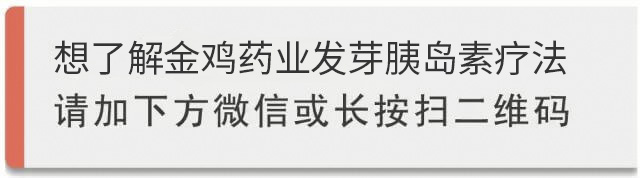
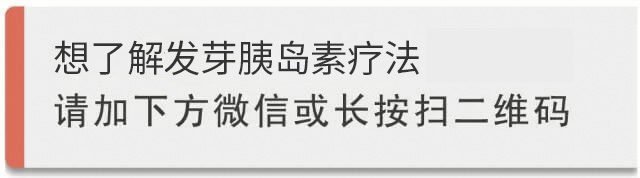
add

Changed region(s): [[0.25, 0.2247, 0.9062, 0.4213]]

diff --git a/MTU2OTQ5NDE2MjU4NS3lh4_ogqU=/index.html b/MTU2OTQ5NDE2MjU4NS3lh4_ogqU=/index.html
@@ -95,7 +95,7 @@
   <span style="font-size:15px;color:#576b95;">糖医有话说</span> &nbsp;<span style="font-size:15px;color:rgb(160,160,160);">2019-08-16</span>
  </p>
  <p>
-   <span>最近，糖友圈发生了一件神奇的事，红墙国医胡维勤把<span class="red">300年的葛洪®糖安化糖老方</span>和现代最高科技的<span class="red">发芽胰岛素干细胞植入技术</span>结合到了一起。这种技术就像在糖尿病患者的胰岛中种了一颗胰岛素的种子，<span class="red">只要胰岛没有摘除，没有坏死，它会在胰岛当中生根发芽，源源不断的分泌胰岛素，来替代那些坏死的胰岛细胞。</span>这事一发生就遭到数百万糖友疯狂转发。据说花不了几个钱，但发芽胰岛素降糖效果出奇的好，而且还是由知名药企<span class="red">金鸡药业</span>研发生产，只要用上它，血糖再不高，并发症全消，吃喝不受限，老糖人变成正常人。只花5分钟，看完一生受用！</span>
+   <span>最近，糖友圈发生了一件神奇的事，红墙国医胡维勤把<span class="red">300年的葛洪®糖安化糖老方</span>和现代最高科技的<span class="red">发芽胰岛素干细胞植入技术</span>结合到了一起。这种技术就像在糖尿病患者的胰岛中种了一颗胰岛素的种子，<span class="red">只要胰岛没有摘除，没有坏死，它会在胰岛当中生根发芽，源源不断的分泌胰岛素，来替代那些坏死的胰岛细胞。</span>这事一发生就遭到数百万糖友疯狂转发。据说花不了几个钱，但发芽胰岛素降糖效果出奇的好，而且还是由知名药企<span class="red"></span>研发生产，只要用上它，血糖再不高，并发症全消，吃喝不受限，老糖人变成正常人。只花5分钟，看完一生受用！</span>
  </p>
  <img src="static/picture/5ce35f7dn1aec914a.jpg" alt="" class="img">
  <img src="static/picture/25671277245.jpg" alt="" class="img">
@@ -124,14 +124,14 @@
  </p>
  <img src="static/picture/jt07162_07.jpg" alt="" class="img">
  <p>
-   <span>多亏在北京医院工作的老同学，告诉我金鸡药业有一个神奇的<span class="red">发芽胰岛素疗法</span>。据老同学讲，</span><span class="red">这个<span>发芽胰岛素</span>疗法在各大医院做临床，遗传性糖尿病、肥胖型糖尿病、药物性糖尿病，还有眼底、足底、心脑、肝肾出现并发症者100个人里头，有98个人全面变好。</span>
+   <span>多亏在北京医院工作的老同学，告诉我有一个神奇的<span class="red">发芽胰岛素疗法</span>。据老同学讲，</span><span class="red">这个<span>发芽胰岛素</span>疗法在各大医院做临床，遗传性糖尿病、肥胖型糖尿病、药物性糖尿病，还有眼底、足底、心脑、肝肾出现并发症者100个人里头，有98个人全面变好。</span>
  </p>
  <p>
    <span>我吃上当天，明显感到嘴不干了，排尿少了，浑身有劲。吃到三四天，<span class="red">血糖就稳定在餐前5.0餐后7.0</span>，眼前不起雾，看报纸不费劲，连吃三个疗程后，血糖稳定再没高，肝肾指标也正常了，原来增大的左心室，康复如初！</span>
  </p>
  <img src="static/picture/6b41f3eb7fa078e7.jpg" alt="" class="img">
  <p>
-   <span>我大哥用金鸡药业的发芽胰岛素疗法效果比我还明显，<span class="red">蛋白尿消失了，接近失明的双眼也能看清东西</span>了，如今他<span class="red">不再依赖胰岛素</span>，能吃能喝，气色红润，不仅血糖一点没反弹， 而且从头到脚的并发症，也一天比一天少！我俩聚一起常感叹：要是发芽胰岛素疗法再早知道几年，老爸也不会因糖尿病丢了性命！</span>
+   <span>我大哥用发芽胰岛素疗法效果比我还明显，<span class="red">蛋白尿消失了，接近失明的双眼也能看清东西</span>了，如今他<span class="red">不再依赖胰岛素</span>，能吃能喝，气色红润，不仅血糖一点没反弹， 而且从头到脚的并发症，也一天比一天少！我俩聚一起常感叹：要是发芽胰岛素疗法再早知道几年，老爸也不会因糖尿病丢了性命！</span>
  </p>
  <img src="static/picture/jt07162_11.jpg" alt="" class="img">
   <p>
@@ -154,7 +154,7 @@
  </p>
  <img src="static/picture/jt07162_15.jpg" alt="" class="img">
  <p>
-   <span>这300年葛洪®糖安化糖老方高科技升华金鸡药业发芽胰岛素疗法，益气养阴、温阳活血，能有效消化转移多余血糖为能量，快速激活胰岛干细胞，从而<span class="red">消除高血糖，消除并发症</span>，被医学专家，形象的称为</span><span class="red">天然口服发芽胰岛素</span><span>，并经现代制药技术，改良浓缩后更容易被人体吸收，为此<span class="red">国家列为OTC准字号国药保护，全国独一个，绝没第二。</span></span>
+   <span>这300年葛洪®糖安化糖老方高科技升华发芽胰岛素疗法，益气养阴、温阳活血，能有效消化转移多余血糖为能量，快速激活胰岛干细胞，从而<span class="red">消除高血糖，消除并发症</span>，被医学专家，形象的称为</span><span class="red">天然口服发芽胰岛素</span><span>，并经现代制药技术，改良浓缩后更容易被人体吸收，为此<span class="red">国家列为OTC准字号国药保护，全国独一个，绝没第二。</span></span>
  </p>
   <p>
    <span>（<span style="color: #F409EB">添加老师微信，领取糖尿病发芽胰岛素疗法治疗方案</span>）:</span><span style="color:red;background-color: yellow"><script>document.write(stxlwx)</script></span>
@@ -183,7 +183,7 @@
    <span>中医认为：疾病既然有它的来路，就一定有送走它的去路。糖尿病“</span><span class="red">病在胰岛、症在五脏、根在细胞</span><span>”，中医治疗上“以胰治胰，以胰补胰”，方可达到清热消渴，目的就是改变高血糖体质，消化血糖为能量才是根本出路。</span>
  </p>
  <p>
-   <span>国医大师和金鸡药业告诉你：糖尿病能彻底治好！<span style="color: #0E0E0E">金鸡药业研发的这个糖尿病治疗技术最神奇之处就在于将300年前葛洪®糖安化糖老方结合高科技提炼出的“发芽胰岛素”干细胞种植疗法，这<span class="red">发芽胰岛素是一种胰岛干细胞</span>，它会在胰岛当中生根发芽，来替代死亡的胰岛及脏腑细胞，源源不断的分泌胰岛素，恢复人体胰岛器官的用糖能力，同时还可以激活那些休眠的惰性的胰岛细胞再次工作，让它成为多余血糖的搬运工，<span class="red">吃进多少糖，它就能消化转移多少糖</span>。这样不仅血糖平稳了，五脏器官细胞能够正常消耗利用摄入的糖分，血糖就会自主下降至正常，糖尿病自就好了，逐渐摆脱服用降糖药的恶性循环，五脏六腑的细胞也有营养了，并发症也就从头到脚全都消失了，以后血糖想高也高不起来。</span>
+   <span>国医大师告诉你：糖尿病能彻底治好！<span style="color: #0E0E0E">研发的这个糖尿病治疗技术最神奇之处就在于将300年前葛洪®糖安化糖老方结合高科技提炼出的“发芽胰岛素”干细胞种植疗法，这<span class="red">发芽胰岛素是一种胰岛干细胞</span>，它会在胰岛当中生根发芽，来替代死亡的胰岛及脏腑细胞，源源不断的分泌胰岛素，恢复人体胰岛器官的用糖能力，同时还可以激活那些休眠的惰性的胰岛细胞再次工作，让它成为多余血糖的搬运工，<span class="red">吃进多少糖，它就能消化转移多少糖</span>。这样不仅血糖平稳了，五脏器官细胞能够正常消耗利用摄入的糖分，血糖就会自主下降至正常，糖尿病自就好了，逐渐摆脱服用降糖药的恶性循环，五脏六腑的细胞也有营养了，并发症也就从头到脚全都消失了，以后血糖想高也高不起来。</span>
  </p>
  <p>
    <span>（添加老师微信，领取糖尿病发芽胰岛素疗法治疗方案）:</span><span style="color:red;background-color: yellow"><script>document.write(stxlwx)</script></span>
@@ -210,7 +210,7 @@
  </p>
  <img src="static/picture/444.jpg" alt="" class="img">
  <p>
-   <span>金鸡药业对现代化高科技提纯工艺的信任和针对中药的原材料的信任。最主要的发芽胰岛素是从什么地方提取出来的？它是在<span class="red">藏香猪的胰岛</span>当中提取出来的，藏香猪的胰岛细胞和人体胰岛器官细胞<span class="red">匹配度高达99%</span>，野生藏香猪吃的是冬虫夏草、雪莲红花，饮的是天山雪水，被誉为“<span class="red">山神的馈赠</span>”。而且是经过繁琐的工艺高科技的提取之后，才能够从十头藏香猪的胰岛当中提炼出这一粒发芽胰岛素。如果说浓缩的是精华，那可以说发芽胰岛素那就是精华当中的精华！而且，发芽胰岛素当中用到的所有中药材，都是采自于广西十万大山当中的名贵中草药材，这也是为什么，胡老把三百年的老方和在国外多年的研究成果，交给了<span class="red">广西金鸡药业</span>生产的原因。</span>
+   <span>对现代化高科技提纯工艺的信任和针对中药的原材料的信任。最主要的发芽胰岛素是从什么地方提取出来的？它是在<span class="red">藏香猪的胰岛</span>当中提取出来的，藏香猪的胰岛细胞和人体胰岛器官细胞<span class="red">匹配度高达99%</span>，野生藏香猪吃的是冬虫夏草、雪莲红花，饮的是天山雪水，被誉为“<span class="red">山神的馈赠</span>”。而且是经过繁琐的工艺高科技的提取之后，才能够从十头藏香猪的胰岛当中提炼出这一粒发芽胰岛素。如果说浓缩的是精华，那可以说发芽胰岛素那就是精华当中的精华！而且，发芽胰岛素当中用到的所有中药材，都是采自于广西十万大山当中的名贵中草药材，这也是为什么，胡老把三百年的老方和在国外多年的研究成果，交给了<span class="red">广西</span>生产的原因。</span>
  </p>
  <img src="static/picture/5ce35ff4n722d19ac.jpg" alt="" class="img">
  <p>
@@ -228,17 +228,17 @@
  </p>
  <img src="static/picture/02.gif" alt="" class="img">
  <p>
-   <span>黑龙江农民孙贵田，糖尿病8年，吃遍各种降糖西药，可是这血糖还是忽高忽低，一直治不好，更引发了脚面坏疽，不但什么活都干不了，还面临截肢隐患。</span><br><span>要不是及时用上<span class="red">金鸡药业的发芽胰岛素</span>，老孙的脚可能早就不保了。原来血糖18.5mmol/L,血压180/110mmHg，服用1周后，血糖控制在6.3 mmol/L，血压稳定在120/90mmH，晨起盗汗，失眠严重，夜尿多，经常头晕头痛明显减轻。</span>
+   <span>黑龙江农民孙贵田，糖尿病8年，吃遍各种降糖西药，可是这血糖还是忽高忽低，一直治不好，更引发了脚面坏疽，不但什么活都干不了，还面临截肢隐患。</span><br><span>要不是及时用上<span class="red">发芽胰岛素</span>，老孙的脚可能早就不保了。原来血糖18.5mmol/L,血压180/110mmHg，服用1周后，血糖控制在6.3 mmol/L，血压稳定在120/90mmH，晨起盗汗，失眠严重，夜尿多，经常头晕头痛明显减轻。</span>
    <br><span>用发芽胰岛素3疗程，<span class="red">不仅烂了一年的脚，肉全长好了，更从此摆脱了降糖西药对全身的毒害。</span></span>
  </p>
  <img src=""  alt="" class="img weixinpic">
  <p>
-   <span>服用<span class="red">金鸡药业的发芽胰岛素</span>，白天益气消糖，晚上营养细胞，治养防三效合一，不出三个疗程，让老糖人实现“汤、糖、躺、烫、”四大康复金指标：</span>
+   <span>服用<span class="red">发芽胰岛素</span>，白天益气消糖，晚上营养细胞，治养防三效合一，不出三个疗程，让老糖人实现“汤、糖、躺、烫、”四大康复金指标：</span>
  </p>
  <p>
-   <span class="red">汤</span><span>，指饮食的改变，很多糖友怕吃饭吃多了血糖高，只能喝汤喝个水饱，用<span class="red">金鸡药业的发芽胰岛素</span>疗法，你就可以像健康人一样，<span class="red">顿顿能饱餐，再不用担心血糖再升高。</span></span><br>
-   <span class="red">糖</span><span>，指血糖的改变，<span class="red">金鸡药业的发芽胰岛素</span>疗法当天消糖，3天稳糖，空腹血糖值，<span class="red">稳稳控制在6.0以下</span>，让你再无后顾之忧。</span><br>
-   <span class="red">躺</span><span >，指精神的改变，糖尿病人身子没劲，总想躺着。那是因为血糖没被吸收，都被排走了，<span class="red">金鸡药业的发芽胰岛素</span>疗法<span class="red">消化血糖为能量，自然浑身有劲。</span></span><br>
+   <span class="red">汤</span><span>，指饮食的改变，很多糖友怕吃饭吃多了血糖高，只能喝汤喝个水饱，用<span class="red">发芽胰岛素</span>疗法，你就可以像健康人一样，<span class="red">顿顿能饱餐，再不用担心血糖再升高。</span></span><br>
+   <span class="red">糖</span><span>，指血糖的改变，<span class="red">发芽胰岛素</span>疗法当天消糖，3天稳糖，空腹血糖值，<span class="red">稳稳控制在6.0以下</span>，让你再无后顾之忧。</span><br>
+   <span class="red">躺</span><span >，指精神的改变，糖尿病人身子没劲，总想躺着。那是因为血糖没被吸收，都被排走了，<span class="red">发芽胰岛素</span>疗法<span class="red">消化血糖为能量，自然浑身有劲。</span></span><br>
    <span class="red">烫</span><span>，指并发症的改变，糖尿病人的脚，麻木迟纯，不小心很容易烫伤，引起感染坏疽，甚至截肢！化糖老方，不仅能消化血糖，更能滋养神经，恢复手脚神经敏感度，调节内分泌循环，<span class="red">并发症越来越少，身体越来越好。</span></span>
  </p>
  <p>
@@ -257,18 +257,18 @@
  </p>
  <img src="static/picture/jt07162_29.jpg" alt="" class="img">
  <p>
-   <span>老杨以前光知道吃降糖西药，打胰岛素来治糖尿病，可打针吃药不见好，自从用了<span class="red">金鸡药业的发芽胰岛素</span>疗法，才五六天，头不晕了，胸也不闷，睡觉特别香。</span><br>
+   <span>老杨以前光知道吃降糖西药，打胰岛素来治糖尿病，可打针吃药不见好，自从用了<span class="red">发芽胰岛素</span>疗法，才五六天，头不晕了，胸也不闷，睡觉特别香。</span><br>
    <span>一个疗程，他就<span class="red">减服一半降糖西药</span>，血糖仍然稳定在6.0，手脚也不麻木了，身上也有劲了。坚持吃了3个疗程后，他就再也不依赖降糖药了，血糖还是正常范围，血压血脂再没高。现在他，<span class="red">吃喝玩乐样样行</span>，彻底摆脱糖人称号！</span>
  </p>
  <img src="static/picture/05.gif" alt="" class="img">
  <p>
-   <span>如果您在糖尿病治疗中出现以下情况，<span class="red">请抓紧用金鸡药业的发芽胰岛素疗法</span>：</span>
+   <span>如果您在糖尿病治疗中出现以下情况，<span class="red">请抓紧用发芽胰岛素疗法</span>：</span>
  </p>
  <p>
-   <span class="red">1. 普通降糖药难以控制病情：</span><span>说明血液中无法消除转化的糖已经很多，胰岛损伤很严重，同时出现视力模糊，皮肤搔痒，手指尖麻木，伤口不愈合等症状，应及时用金鸡药业的发芽胰岛素疗法。</span><br>
-   <span class="red">2. 长期吃降糖药，肝肾功能出现损坏：</span><span>金鸡药业的发芽胰岛素疗法，不但能消化血糖，再生胰岛细胞，同时还能排出血液和肝肾等脏器中，多年沉积的药毒，调理内环境，消除并发症。</span><br>
-   <span class="red">3. 刚检查出糖尿病：</span><span>临床上医生不主张吃降糖西药，轻度糖尿病患者，可直接用金鸡药业的发芽胰岛素疗法。</span><br>
-   <span class="red">4. 用降糖西药物产生抗药性，药越吃越不管用：</span><span>如果再不用金鸡药业的发芽胰岛素疗法，消化多余血糖，激活胰岛细胞，将无药可救！</span>
+   <span class="red">1. 普通降糖药难以控制病情：</span><span>说明血液中无法消除转化的糖已经很多，胰岛损伤很严重，同时出现视力模糊，皮肤搔痒，手指尖麻木，伤口不愈合等症状，应及时用发芽胰岛素疗法。</span><br>
+   <span class="red">2. 长期吃降糖药，肝肾功能出现损坏：</span><span>发芽胰岛素疗法，不但能消化血糖，再生胰岛细胞，同时还能排出血液和肝肾等脏器中，多年沉积的药毒，调理内环境，消除并发症。</span><br>
+   <span class="red">3. 刚检查出糖尿病：</span><span>临床上医生不主张吃降糖西药，轻度糖尿病患者，可直接用发芽胰岛素疗法。</span><br>
+   <span class="red">4. 用降糖西药物产生抗药性，药越吃越不管用：</span><span>如果再不用发芽胰岛素疗法，消化多余血糖，激活胰岛细胞，将无药可救！</span>
  </p>
   <p>
    <span>（添加老师微信，领取糖尿病发芽胰岛素疗法治疗方案）:</span><span style="color:red;background-color: yellow"><script>document.write(stxlwx)</script></span>
@@ -288,17 +288,17 @@
  <p>
    <span>虽然血糖值没再高，可<span class="red">血压、血脂、心率、尿蛋白，各项指标都超标</span>。难怪他最近，总是感觉浑身无力出虚汗，腿脚发麻，心慌失眠，小便味大总尿急。</span><br>
    <span>以前他觉得人到中年，谁还没点小毛病。可听大夫说，养病如养虎，10个糖尿病9个死于并发症，所以控制糖尿病并发症比控制血糖更重要。</span><br>
-   <span>自从用上金鸡药业的发芽胰岛素疗法，罗大哥明显感到，头不晕了，眼不花了，手脚不再麻，尿频尿急消失了，浑身有劲，睡眠好。<span class="red">三个疗程后，血糖、血脂、血压、心率、尿蛋白等指标全都回归了正常值，身体一天比一天好</span>！</span>
+   <span>自从用上发芽胰岛素疗法，罗大哥明显感到，头不晕了，眼不花了，手脚不再麻，尿频尿急消失了，浑身有劲，睡眠好。<span class="red">三个疗程后，血糖、血脂、血压、心率、尿蛋白等指标全都回归了正常值，身体一天比一天好</span>！</span>
  </p>
  <img src="static/picture/666.jpg" alt="" class="img">
  <p>
    <span>家住西安市小寨西路的47岁李海霞，糖尿病、高血压多年。每天吃降压药、打胰岛素，仍头晕胸闷，视力模糊，手脚麻木。有一次晕突发脑梗，差点丢了命，住院时听病友说，每天打针吃药，时间久了一样还会中风偏瘫患心梗。</span><br>
-   <span>没想到服用金鸡药业的发芽胰岛素疗法6天，血糖血压平稳降到正常值，连续服用了一个月，胰岛素、降压药统统不用了，再去医院体检，<span class="red">血糖5.5 mmol/L。血压130/80 mmH，</span>胰岛功能正常，心脑血栓全部消除。</span>
+   <span>没想到服用发芽胰岛素疗法6天，血糖血压平稳降到正常值，连续服用了一个月，胰岛素、降压药统统不用了，再去医院体检，<span class="red">血糖5.5 mmol/L。血压130/80 mmH，</span>胰岛功能正常，心脑血栓全部消除。</span>
  </p>
  <img src="static/picture/3345454.jpg" alt="" class="img">
  <img src="static/picture/06.gif" alt="" class="img">
  <p>
-   <span>金鸡药业发芽胰岛素疗法，不仅消化血糖为能量，让血糖回归正常值，不再增高，而且坚持用上3疗程以上，身体还可以发生3大变化：</span><br>
+   <span>发芽胰岛素疗法，不仅消化血糖为能量，让血糖回归正常值，不再增高，而且坚持用上3疗程以上，身体还可以发生3大变化：</span><br>
    <span class="red">第一：小便变味，浑身有劲：</span><span>消化血糖的能力增强了，小便中流失的营养没有了，所以尿液变清了，泡沫消了，骚味没了，浑身有劲。</span>
  </p>
  <p>
@@ -308,15 +308,15 @@
  <img src="static/picture/07.gif" alt="" class="img">
  <p>
    <span>相信大多数糖友，一说到降糖，都有一堆失败的经验和苦水。
-但这次，大家千万别把金鸡药业的发芽胰岛素疗法和那些没名没姓，小作坊制造，没有正规批号、甚至添加违禁成份的降糖产品相提并论。</span>
+但这次，大家千万别把发芽胰岛素疗法和那些没名没姓，小作坊制造，没有正规批号、甚至添加违禁成份的降糖产品相提并论。</span>
  </p>
  <p>
-   <span class="red">论出身：</span><span>金鸡药业的发芽胰岛素疗法，系出名门，系全国百强药企，金鸡药业中华老字号，全国独一个，绝没第二个。</span><br>
-   <span class="red">论口碑：</span><span>金鸡药业的发芽胰岛素疗法，问世以来，深受广大糖友信赖，备受称赞和追捧，受益人群与日俱增。</span><br>
-   <span class="red">论品质：</span><span>金鸡药业的发芽胰岛素疗法，坚持配方独特，选料上乘，工艺精湛，疗效显著之特色，严把质量观，视品质为生命，视责任重于泰山，一百道工序，给您一百个放心。</span>
+   <span class="red">论出身：</span><span>发芽胰岛素疗法，系出名门，系全国百强药企，中华老字号，全国独一个，绝没第二个。</span><br>
+   <span class="red">论口碑：</span><span>发芽胰岛素疗法，问世以来，深受广大糖友信赖，备受称赞和追捧，受益人群与日俱增。</span><br>
+   <span class="red">论品质：</span><span>发芽胰岛素疗法，坚持配方独特，选料上乘，工艺精湛，疗效显著之特色，严把质量观，视品质为生命，视责任重于泰山，一百道工序，给您一百个放心。</span>
  </p>
  <p style="text-align: center">
-   <span>金鸡药业</span><span class="red">发芽胰岛素疗法适合</span>
+   <span></span><span class="red">发芽胰岛素疗法适合</span>
  </p>
  <p>
    <span class="red">（一） 遗传型糖尿病：</span><span>主要由先天遗传代谢缓慢，造成先天性高血糖症</span><br>
